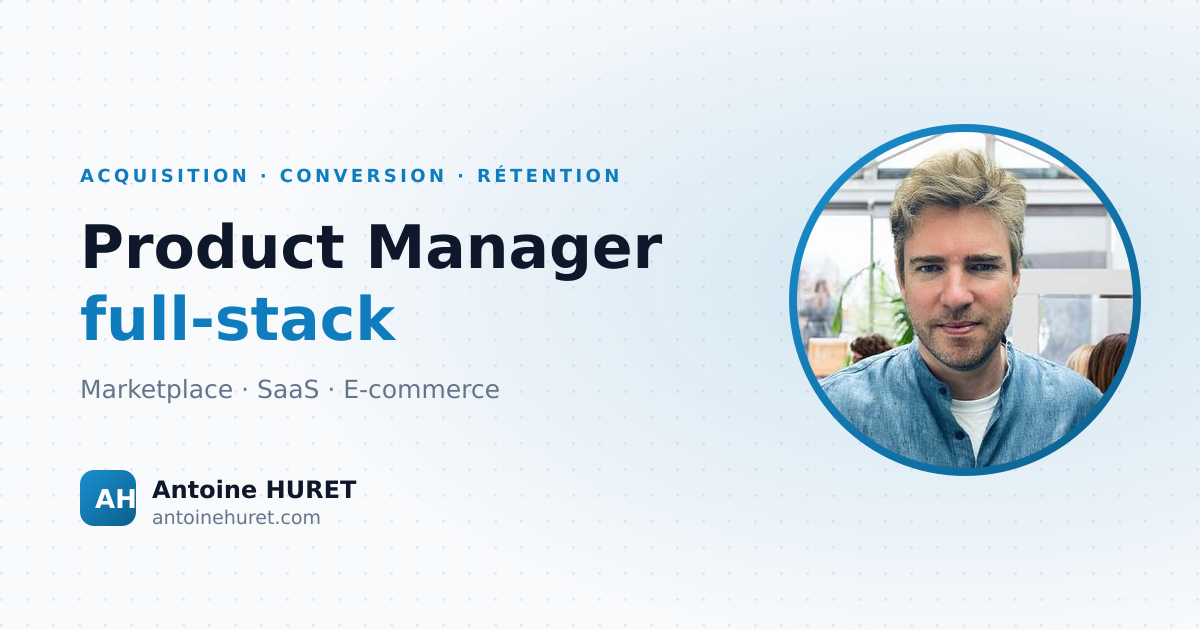
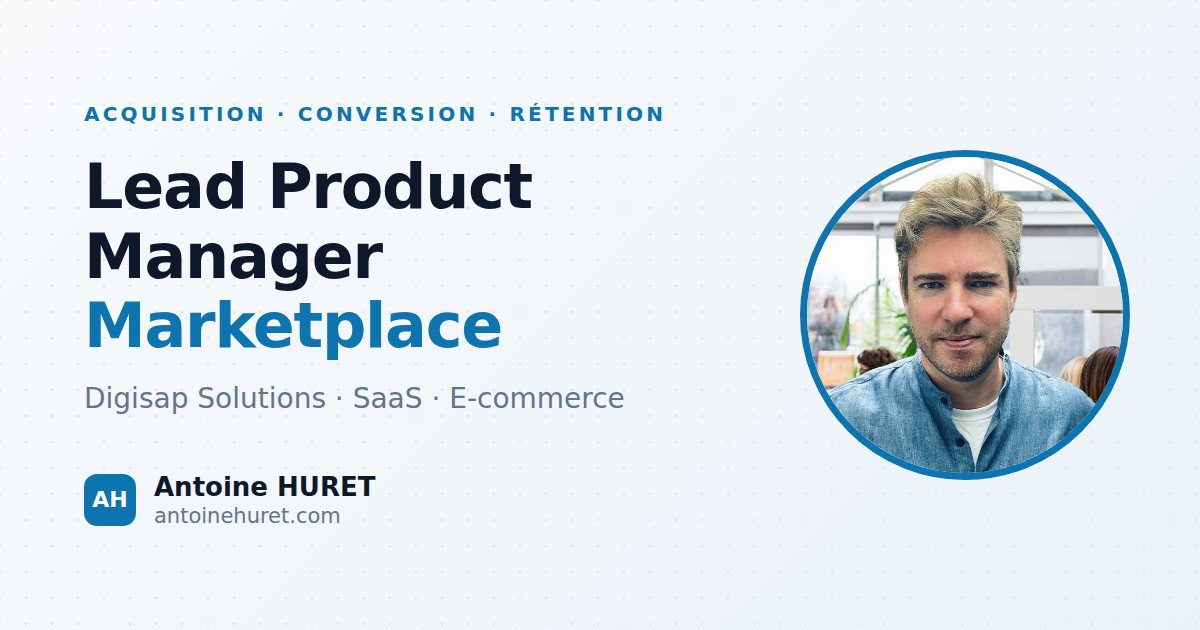
Aligne le site sur l'intitulé « Lead Product Manager Marketplace »
Le titre principal annonçait « Product Manager full-stack » alors que la
carte Digisap du parcours, LinkedIn et about.me indiquent « Lead Product
Manager Marketplace ». Google recoupe ces sources pour consolider l'entité
« Antoine Huret » : les variantes d'intitulé affaiblissent ce recoupement.

- H1, balise title, description, OpenGraph, Twitter Card et JSON-LD
  (jobTitle) portent désormais le même intitulé.
- Le titre passe à 48 caractères et la description à 154 : aucun des deux
  n'est tronqué dans les résultats de recherche.
- Le positionnement « full-stack » n'est pas perdu, il descend dans le
  paragraphe d'accroche et reste dans les mots-clés.
- Image OpenGraph régénérée pour ne plus afficher l'ancien intitulé.

Claude-Session: https://claude.ai/code/session_01JGi4BKbmDp8hbaZTpJYUf1

diff --git a/app/layout.tsx b/app/layout.tsx
@@ -8,14 +8,16 @@ const inter = Inter({ subsets: ["latin"] })
 
 export const metadata: Metadata = {
   metadataBase: new URL("https://www.antoinehuret.com"),
-  // 57 caractères : Google tronque au-delà d’environ 60.
-  title: "Antoine HURET — Product Manager full-stack | Growth & CRO",
-  // 157 caractères : au-delà d’environ 155, Google coupe au milieu d’un mot.
+  // 48 caractères : Google tronque au-delà d’environ 60, l’intitulé de poste
+  // exact passe donc en entier.
+  title: "Antoine HURET — Lead Product Manager Marketplace",
+  // 154 caractères : au-delà d’environ 155, Google coupe au milieu d’un mot.
   description:
-    "Product Manager full-stack : acquisition, produit, data et code. 10 ans chez Swatch, Disneyland Paris et Carglass. Marketplace & SaaS chez Digisap Solutions.",
+    "Lead Product Manager Marketplace chez Digisap Solutions. Acquisition, produit, data, code. 10 ans de growth & CRO chez Swatch, Disneyland Paris, Carglass.",
   keywords: [
     "Antoine Huret",
     "Product Manager",
+    "Lead Product Manager",
     "Product Manager full-stack",
     "Marketplace",
     "SaaS",
@@ -28,9 +30,9 @@ export const metadata: Metadata = {
     "Paris",
   ],
   openGraph: {
-    title: "Antoine HURET — Product Manager full-stack | Growth & CRO",
+    title: "Antoine HURET — Lead Product Manager Marketplace",
     description:
-      "Product Manager full-stack : acquisition, produit, data et code. 10 ans chez Swatch, Disneyland Paris, Carglass et Le Masque Français.",
+      "Lead Product Manager Marketplace chez Digisap Solutions. Acquisition, produit, data et code — Swatch, Disneyland Paris, Carglass, Le Masque Français.",
     url: "https://www.antoinehuret.com",
     siteName: "Antoine HURET",
     locale: "fr_FR",
@@ -38,9 +40,9 @@ export const metadata: Metadata = {
   },
   twitter: {
     card: "summary_large_image",
-    title: "Antoine HURET — Product Manager full-stack",
+    title: "Antoine HURET — Lead Product Manager Marketplace",
     description:
-      "Product Manager full-stack : acquisition, produit, data et code. 10 ans chez Swatch, Disneyland Paris, Carglass et Le Masque Français.",
+      "Lead Product Manager Marketplace chez Digisap Solutions. Acquisition, produit, data et code — Swatch, Disneyland Paris, Carglass, Le Masque Français.",
   },
   alternates: {
     canonical: "https://www.antoinehuret.com",
@@ -55,9 +57,9 @@ const personneJsonLd = {
   name: "Antoine Huret",
   url: "https://www.antoinehuret.com",
   image: "https://www.antoinehuret.com/profil.jpg",
-  jobTitle: "Product Manager full-stack",
+  jobTitle: "Lead Product Manager Marketplace",
   description:
-    "Product Manager full-stack : acquisition, produit, data et code. Marketplace, SaaS et e-commerce.",
+    "Lead Product Manager Marketplace chez Digisap Solutions : acquisition, produit, data et code.",
   worksFor: { "@type": "Organization", name: "Digisap Solutions" },
   address: { "@type": "PostalAddress", addressLocality: "Paris", addressCountry: "FR" },
   alumniOf: [

diff --git a/app/page.tsx b/app/page.tsx
@@ -43,14 +43,15 @@ export default function Home() {
                 Acquisition · Conversion · Rétention
               </p>
               <h1 className="text-4xl sm:text-5xl md:text-6xl font-bold tracking-tight text-balance animate-fade-in-up">
-                Product Manager
-                <span className="block text-primary">full-stack</span>
+                Lead Product Manager
+                <span className="block text-primary">Marketplace</span>
               </h1>
             </div>
             <p className="text-base sm:text-lg md:text-xl text-muted-foreground animate-fade-in-up delay-200 text-pretty max-w-3xl mx-auto">
-              Je couvre l’acquisition, le produit, la data et le code. +10 ans à faire grandir des
-              produits digitaux — BMW, Disneyland Paris, Swatch, Carglass. Aujourd’hui chez Digisap
-              Solutions, je pilote la marketplace et sa croissance.
+              Product Manager full-stack : je couvre l’acquisition, le produit, la data et le code.
+              +10 ans à faire grandir des produits digitaux — BMW, Disneyland Paris, Swatch,
+              Carglass. Aujourd’hui chez Digisap Solutions, je pilote la marketplace et sa
+              croissance.
             </p>
             <ul className="flex flex-wrap justify-center gap-3 animate-fade-in-up delay-200">
               {domains.map((domain) => (
